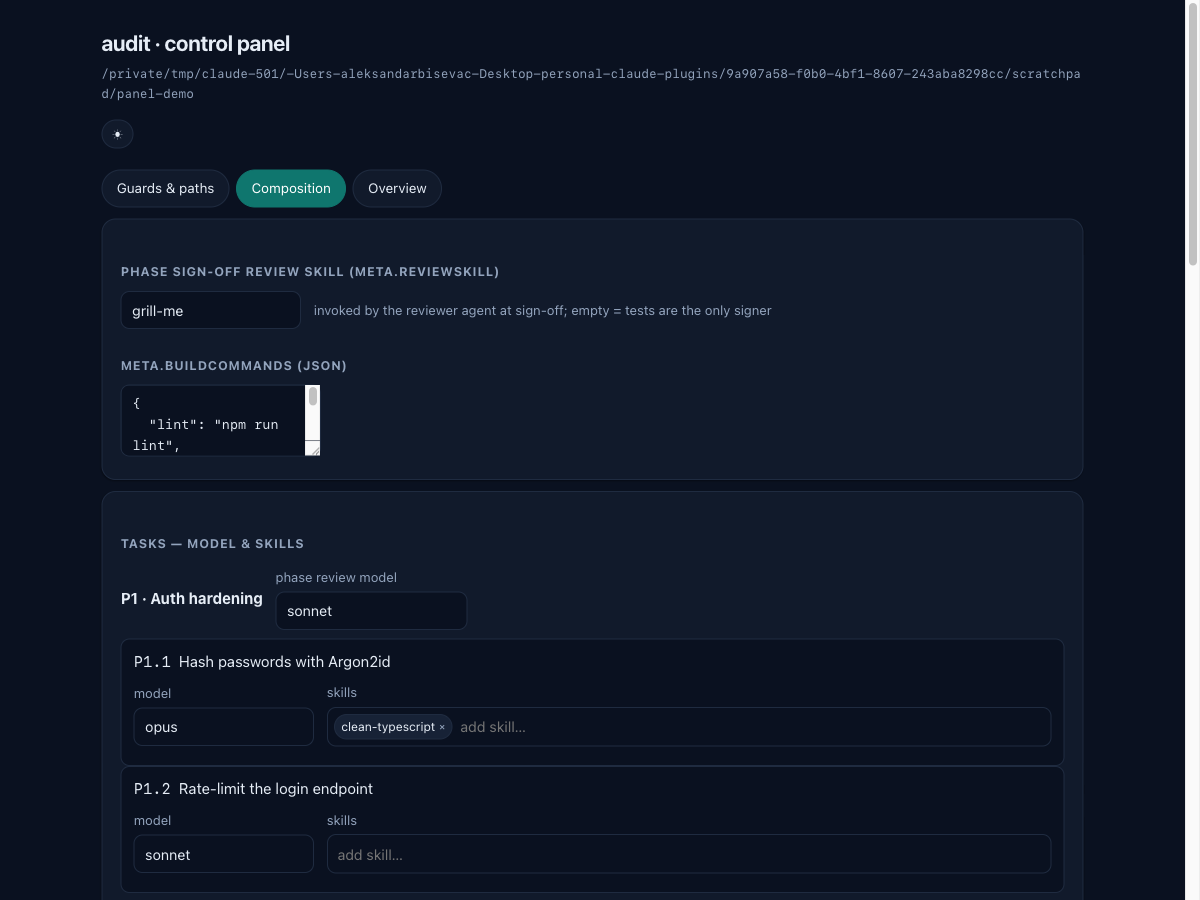
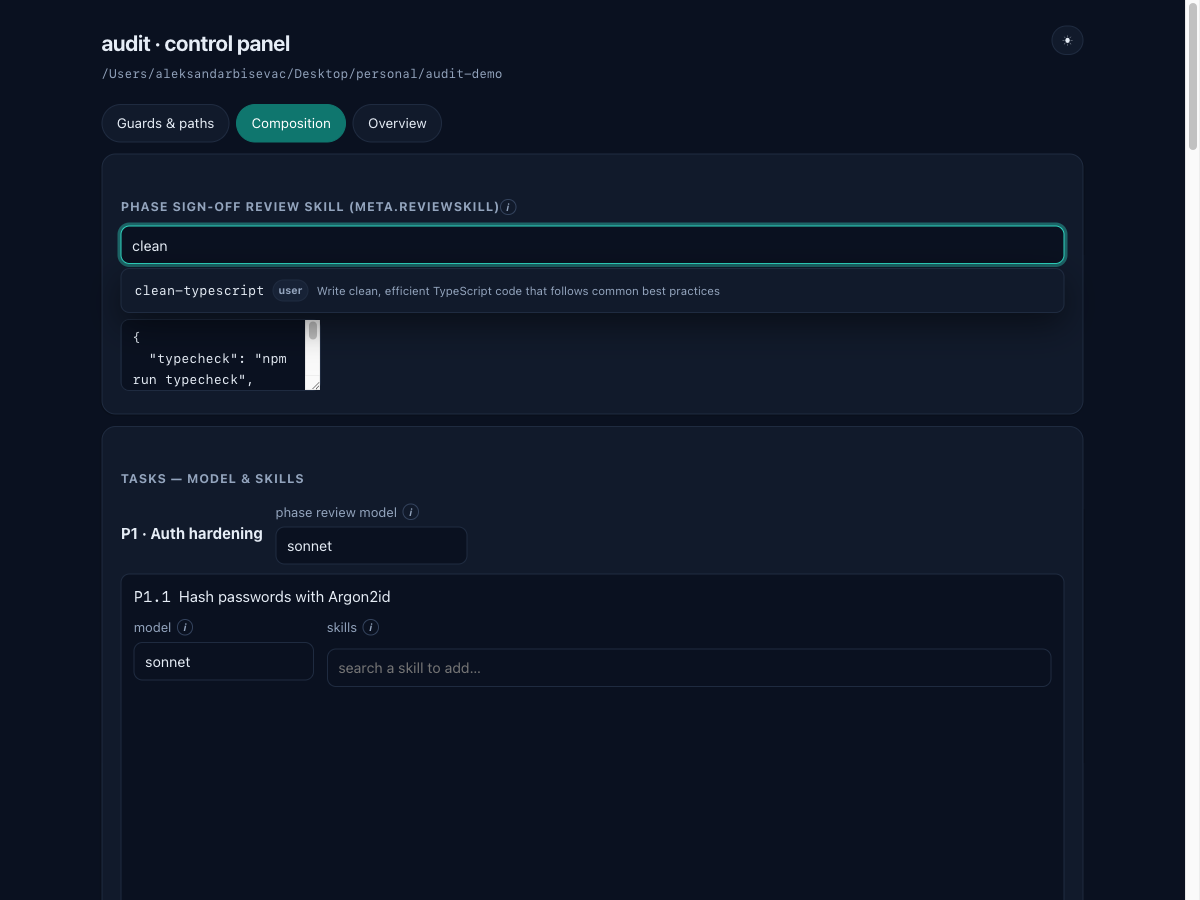
feat(panel): info-hint labels, custom autocomplete, tabbed registry table
UX pass on the control panel (feedback from first look):
- Every field/section label gets an ⓘ info hint with a plain-language tooltip
  (a DESC map) so the raw config keys are self-explanatory.
- Replaces the native <datalist> with a custom combobox: an autocomplete menu
  directly under the input, limited height + scroll, clear items (name + source
  badge + description), full keyboard + click select. Used by meta.reviewSkill
  and per-task skills.
- "Available building blocks" is now ONE table with Skills / Agents / MCP
  sub-tabs (name · source · description, sticky header) instead of stacked lists.
- Fixes model/skills top-alignment in task rows.

panel-server --selftest 30 (added checks: no native datalist, hints present,
tabbed table present). Browser-verified light + dark.

diff --git a/plugins/audit/scripts/panel-server.py b/plugins/audit/scripts/panel-server.py
@@ -633,9 +633,41 @@ textarea{font-family:var(--mono);font-size:.82rem;min-height:4.5rem;resize:verti
 .findings.warn{background:color-mix(in srgb,var(--warn) 14%,transparent);color:var(--warn)}
 .findings.ok{background:color-mix(in srgb,var(--ok) 12%,transparent);color:var(--ok)}
 .src{font-size:.66rem}.hidden{display:none}
-.reg{display:flex;flex-direction:column;gap:.3rem;max-height:16rem;overflow:auto}
-.reg .it{display:flex;gap:.5rem;align-items:baseline;padding:.3rem .4rem;border-radius:var(--radius)}
-.reg .it:hover{background:var(--surface-2)}
+/* info hints on labels */
+.lbl{display:inline-flex;align-items:center;gap:.35rem}
+.hint{display:inline-flex;align-items:center;justify-content:center;width:1.02rem;height:1.02rem;border-radius:50%;
+ border:1px solid var(--border-strong);color:var(--muted);font:italic 700 .62rem/1 var(--sans);cursor:help;
+ position:relative;flex:0 0 auto;text-transform:none}
+.hint:hover,.hint:focus{border-color:var(--accent);color:var(--accent);outline:none}
+.hint::after{content:attr(data-tip);position:absolute;left:0;top:calc(100% + .4rem);z-index:60;width:17rem;max-width:72vw;
+ background:var(--surface);color:var(--text);border:1px solid var(--border);border-radius:var(--radius);
+ box-shadow:var(--shadow-md);padding:.5rem .6rem;font:400 .74rem/1.45 var(--sans);text-transform:none;letter-spacing:0;
+ white-space:normal;opacity:0;visibility:hidden;transition:opacity var(--dur);pointer-events:none}
+.hint:hover::after,.hint:focus::after{opacity:1;visibility:visible}
+/* custom autocomplete combobox (replaces native datalist) */
+.combo{position:relative;flex:1 1 18rem}
+.combo>input{width:100%}
+.combo-menu{position:absolute;left:0;right:0;top:calc(100% + .25rem);z-index:40;background:var(--surface);
+ border:1px solid var(--border);border-radius:var(--radius);box-shadow:var(--shadow-md);max-height:15rem;overflow:auto;padding:.25rem}
+.combo-it{display:flex;align-items:center;gap:.5rem;padding:.4rem .55rem;border-radius:6px;cursor:pointer}
+.combo-it:hover,.combo-it.active{background:var(--surface-2)}
+.combo-n{font-size:.82rem;flex:0 0 auto}
+.combo-d{color:var(--muted);font-size:.72rem;white-space:nowrap;overflow:hidden;text-overflow:ellipsis;flex:1 1 auto}
+.chipwrap{display:flex;flex-direction:column;gap:.4rem;flex:1 1 auto}
+.chips{display:flex;gap:.3rem;flex-wrap:wrap}
+/* discovered building-blocks: subtabs + one table */
+.subtabs{display:flex;gap:.35rem;margin:.5rem 0 .6rem;flex-wrap:wrap}
+.subtab{cursor:pointer;font:inherit;font-size:.78rem;padding:.3rem .75rem;border-radius:var(--pill);
+ border:1px solid var(--border);background:var(--bg);color:var(--muted);transition:all var(--dur) var(--ease)}
+.subtab:hover{border-color:var(--border-strong)}
+.subtab.on{background:var(--surface-2);color:var(--text);border-color:var(--border-strong)}
+.regtblwrap{max-height:22rem;overflow:auto;border:1px solid var(--border);border-radius:var(--radius)}
+table.regtbl{width:100%;border-collapse:separate;border-spacing:0;font-size:.82rem}
+table.regtbl th{position:sticky;top:0;z-index:1;background:var(--surface-2);color:var(--muted);text-align:left;
+ font-size:.66rem;text-transform:uppercase;letter-spacing:.05em;padding:.45rem .65rem;border-bottom:1px solid var(--border)}
+table.regtbl td{padding:.4rem .65rem;border-bottom:1px solid var(--border);vertical-align:top}
+table.regtbl tbody tr:hover td{background:var(--surface-2)}
+table.regtbl td.d{color:var(--muted)}
 </style></head><body>
 <div class=top>
  <div><h1>audit · control panel</h1><p class=sub id=proj></p></div>
@@ -680,6 +712,57 @@ function findingsBox(res){const box=el('div');
  return box;}
 async function boot(){STATE=await api('GET','/api/state');REG=await api('GET','/api/registry');
  renderGuards();renderComp();renderOver();}
+// ---------- shared: info hints + autocomplete ----------
+const DESC={
+ manifestPath:"Path to the audit manifest JSON (project-relative). Default docs/audit/audit-plan.json.",
+ gitRoot:"Path of the git repo root, where git + build/gate commands run. Default '.' (this dir).",
+ stateDir:"Where the hooks keep transactional state files. Default .claude/state.",
+ logsDir:"Where the hooks write logs. Default .claude/logs.",
+ bypassKeyword:"Type this in a prompt to arm a one-off plan-first bypass for the next edit. Default #no-plan.",
+ trivialLineThreshold:"First-touch edits at or under this many lines skip the plan-first gate. Default 80.",
+ bashWriteCheck:"Warn when a Bash command creates new source files that weren't planned.",
+ tddReminder:"Non-blocking nudge when you edit source without touching a test.",
+ exemptGlobs:"Globs whose edits skip the plan-first / TDD / bash-write guards (docs, tests, .claude/**, the manifest).",
+ tokenVars:"Identifier names that must never be logged — a console.log/print of any of these is blocked.",
+ secretPatternsExtra:"Extra regexes that mark a file path as a secret; reading a matching file is blocked.",
+ customRules:"Per-path banned patterns: block a regex in new content when the edited path starts with a prefix.",
+ reviewSkill:"Skill the reviewer agent invokes at phase sign-off. Empty = tests are the only signer.",
+ buildCommands:"Named shell commands (typecheck / test / lint …) the pipeline runs as gates.",
+ phaseReviewModel:"Model used for this phase's sign-off review.",
+ taskModel:"Model the executor uses to implement this task.",
+ taskSkills:"Skills the executor loads (via the Skill tool) before writing code for this task."};
+function hint(t){return t?el('span',{class:'hint',tabindex:'0','data-tip':t},'i'):null;}
+function flabel(text,tip){return el('span',{class:'lbl'},text,hint(tip));}
+function h2h(text,tip){return el('h2',{},text,hint(tip));}
+// A custom autocomplete: menu opens directly under the input, limited height,
+// clear items (name + source + description), keyboard + click select.
+function comboWrap(inp,itemsFn,onChoose,onEnterFree){
+ const wrap=el('div',{class:'combo'}),menu=el('div',{class:'combo-menu hidden'});
+ let active=-1,shown=[];
+ const close=()=>{menu.classList.add('hidden');active=-1;};
+ const render=()=>{const q=inp.value.trim().toLowerCase();
+  shown=itemsFn().filter(it=>it.name.toLowerCase().includes(q)).slice(0,60);
+  menu.textContent='';
+  if(!shown.length){close();return;}
+  shown.forEach((it,i)=>menu.append(el('div',{class:'combo-it'+(i===active?' active':''),
+    onmousedown:e=>{e.preventDefault();onChoose(it.name,close);}},
+    el('span',{class:'combo-n mono'},it.name),
+    it.source?el('span',{class:'src badge'},it.source):null,
+    it.description?el('span',{class:'combo-d'},it.description):null)));
+  menu.classList.remove('hidden');
+  const a=menu.querySelector('.combo-it.active');if(a)a.scrollIntoView({block:'nearest'});};
+ inp.setAttribute('autocomplete','off');
+ inp.addEventListener('focus',render);
+ inp.addEventListener('input',()=>{active=-1;render();});
+ inp.addEventListener('keydown',e=>{
+  if(e.key==='ArrowDown'){e.preventDefault();active=Math.min(active+1,shown.length-1);render();}
+  else if(e.key==='ArrowUp'){e.preventDefault();active=Math.max(active-1,0);render();}
+  else if(e.key==='Enter'){if(active>=0){e.preventDefault();onChoose(shown[active].name,close);}
+   else if(onEnterFree&&inp.value.trim()){e.preventDefault();onEnterFree(inp.value.trim(),close);}}
+  else if(e.key==='Escape'){close();}});
+ inp.addEventListener('blur',()=>setTimeout(close,150));
+ wrap.append(inp,menu);return wrap;}
+
 // ---------- Guards & paths ----------
 function listEditor(getArr,setArr,ph){const wrap=el('div',{class:'pill-in'});
  const draw=()=>{wrap.textContent='';(getArr()||[]).forEach((v,i)=>{
@@ -693,29 +776,29 @@ function renderGuards(){const c=$('#guards');c.textContent='';const cfg=JSON.par
  const paths=el('div',{class:'row'});
  for(const k of['manifestPath','gitRoot','stateDir','logsDir','bypassKeyword']){
   const inp=el('input',{value:cfg[k]??'',placeholder:d[k]});inp.oninput=()=>{if(inp.value==='')delete cfg[k];else cfg[k]=inp.value;};
-  paths.append(el('label',{class:'f'},k,inp));}
+  paths.append(el('label',{class:'f'},flabel(k,DESC[k]),inp));}
  const thr=el('input',{type:'number',min:'1',value:cfg.trivialLineThreshold??'',placeholder:d.trivialLineThreshold});
  thr.oninput=()=>{if(thr.value==='')delete cfg.trivialLineThreshold;else cfg.trivialLineThreshold=parseInt(thr.value,10);};
- paths.append(el('label',{class:'f'},'trivialLineThreshold',thr));
+ paths.append(el('label',{class:'f'},flabel('trivialLineThreshold',DESC.trivialLineThreshold),thr));
  card.append(el('h2',{},'Paths'),paths);
  // toggles
  const bw=cfg.bashWriteCheck?{...cfg.bashWriteCheck}:{};const td=cfg.tddReminder?{...cfg.tddReminder}:{};
  const tog=el('div',{class:'row'});
- const mk=(lbl,val,fn)=>{const cb=el('input',{type:'checkbox'});cb.checked=val;cb.onchange=()=>fn(cb.checked);
-  return el('label',{class:'f',style:'flex-direction:row;align-items:center;gap:.4rem;flex:0 0 auto'},cb,lbl);};
- tog.append(mk('bashWriteCheck.enabled',bw.enabled!==false,v=>{bw.enabled=v;cfg.bashWriteCheck=bw;}));
- tog.append(mk('tddReminder.enabled',td.enabled!==false,v=>{td.enabled=v;cfg.tddReminder=td;}));
+ const mk=(lbl,tip,val,fn)=>{const cb=el('input',{type:'checkbox'});cb.checked=val;cb.onchange=()=>fn(cb.checked);
+  return el('label',{class:'f',style:'flex-direction:row;align-items:center;gap:.4rem;flex:0 0 auto'},cb,flabel(lbl,tip));};
+ tog.append(mk('bashWriteCheck.enabled',DESC.bashWriteCheck,bw.enabled!==false,v=>{bw.enabled=v;cfg.bashWriteCheck=bw;}));
+ tog.append(mk('tddReminder.enabled',DESC.tddReminder,td.enabled!==false,v=>{td.enabled=v;cfg.tddReminder=td;}));
  card.append(el('h2',{},'Guards'),tog);
  // lists
- card.append(el('h2',{},'exemptGlobs'),listEditor(()=>cfg.exemptGlobs??d.exemptGlobs,a=>cfg.exemptGlobs=a,'glob…'));
- card.append(el('h2',{},'guardEdits.tokenVars (never logged)'),
+ card.append(h2h('exemptGlobs',DESC.exemptGlobs),listEditor(()=>cfg.exemptGlobs??d.exemptGlobs,a=>cfg.exemptGlobs=a,'glob…'));
+ card.append(h2h('guardEdits.tokenVars (never logged)',DESC.tokenVars),
   listEditor(()=>{cfg.guardEdits=cfg.guardEdits||{};return cfg.guardEdits.tokenVars??d.guardEdits.tokenVars;},
    a=>{cfg.guardEdits=cfg.guardEdits||{};cfg.guardEdits.tokenVars=a;},'identifier…'));
- card.append(el('h2',{},'secretPatterns.extra (regex)'),
+ card.append(h2h('secretPatterns.extra (regex)',DESC.secretPatternsExtra),
   listEditor(()=>{cfg.secretPatterns=cfg.secretPatterns||{};return cfg.secretPatterns.extra??[];},
    a=>{cfg.secretPatterns=cfg.secretPatterns||{};cfg.secretPatterns.extra=a;},'regex…'));
  // custom rules
- card.append(el('h2',{},'guardEdits.customRules'));
+ card.append(h2h('guardEdits.customRules',DESC.customRules));
  const rulesWrap=el('div');const rules=()=>{cfg.guardEdits=cfg.guardEdits||{};cfg.guardEdits.customRules=cfg.guardEdits.customRules||[];return cfg.guardEdits.customRules;};
  const drawRules=()=>{rulesWrap.textContent='';rules().forEach((r,i)=>{
    const pp=el('input',{value:r.pathPrefix||'',placeholder:'pathPrefix'});pp.oninput=()=>r.pathPrefix=pp.value;
@@ -732,22 +815,24 @@ function renderGuards(){const c=$('#guards');c.textContent='';const cfg=JSON.par
  c.append(card);}
 // ---------- Composition ----------
 function skillPicker(current,onChange){
- const dl=el('datalist',{id:'skills-dl'});REG.skills.forEach(s=>dl.append(el('option',{value:s.name})));
- const inp=el('input',{list:'skills-dl',value:current??'',placeholder:'skill name (or leave empty)'});
- inp.oninput=()=>onChange(inp.value.trim()||null);return el('span',{},inp,dl);}
+ const inp=el('input',{value:current??'',placeholder:'search a skill…  (empty = none)'});
+ inp.addEventListener('input',()=>onChange(inp.value.trim()||null));
+ return comboWrap(inp,()=>REG.skills,(name,close)=>{inp.value=name;onChange(name);close();});}
 function skillChips(getArr,setArr){
- const box=el('div',{class:'pill-in'});const draw=()=>{box.textContent='';
-  (getArr()||[]).forEach((v,i)=>box.append(el('span',{class:'chip'},v,el('button',{onclick:()=>{const a=getArr().slice();a.splice(i,1);setArr(a);draw();}},'×'))));
-  const dl=el('datalist',{id:'sk-'+Math.random().toString(36).slice(2)});REG.skills.forEach(s=>dl.append(el('option',{value:s.name})));
-  const inp=el('input',{list:dl.id,placeholder:'add skill…'});inp.addEventListener('keydown',e=>{
-   if(e.key==='Enter'&&inp.value.trim()){const a=(getArr()||[]).slice();a.push(inp.value.trim());setArr(a);draw();}});
-  box.append(inp,dl);};draw();return box;}
+ const box=el('div',{class:'chipwrap'}),chips=el('div',{class:'chips'});
+ const inp=el('input',{placeholder:'search a skill to add…'});
+ const draw=()=>{chips.textContent='';(getArr()||[]).forEach((v,i)=>chips.append(
+   el('span',{class:'chip'},v,el('button',{onmousedown:e=>{e.preventDefault();const a=getArr().slice();a.splice(i,1);setArr(a);draw();}},'×'))));};
+ const add=(name,close)=>{const n=(name||'').trim();
+   if(n){const a=(getArr()||[]).slice();if(!a.includes(n)){a.push(n);setArr(a);draw();}}
+   inp.value='';if(close)close();};
+ const combo=comboWrap(inp,()=>REG.skills.filter(s=>!(getArr()||[]).includes(s.name)),add,add);
+ draw();box.append(chips,combo);return box;}
 function renderComp(){const c=$('#comp');c.textContent='';const comp=STATE.composition;
  const patch={meta:{},phases:{},tasks:{}};
- const meta=el('div',{class:'card'});meta.append(el('h2',{},'Phase sign-off review skill (meta.reviewSkill)'));
- meta.append(el('div',{class:'row'},skillPicker(comp.meta.reviewSkill,v=>patch.meta.reviewSkill=v),
-   el('span',{class:'mut'},'invoked by the reviewer agent at sign-off; empty = tests are the only signer')));
- meta.append(el('h2',{},'meta.buildCommands (JSON)'));
+ const meta=el('div',{class:'card'});meta.append(h2h('Phase sign-off review skill (meta.reviewSkill)',DESC.reviewSkill));
+ meta.append(el('div',{class:'row'},skillPicker(comp.meta.reviewSkill,v=>patch.meta.reviewSkill=v)));
+ meta.append(h2h('meta.buildCommands (JSON)',DESC.buildCommands));
  const bc=el('textarea',{});bc.value=comp.meta.buildCommands?JSON.stringify(comp.meta.buildCommands,null,2):'';
  bc.oninput=()=>{try{patch.meta.buildCommands=bc.value.trim()?JSON.parse(bc.value):null;bc.style.borderColor='';}
   catch(e){bc.style.borderColor='var(--err)';}};
@@ -757,14 +842,14 @@ function renderComp(){const c=$('#comp');c.textContent='';const comp=STATE.compo
  comp.phases.forEach(ph=>{
   const pr=el('input',{value:ph.reviewModel??'',placeholder:'review model'});pr.oninput=()=>{patch.phases[ph.id]={reviewModel:pr.value.trim()||null};};
   tcard.append(el('div',{class:'row',style:'margin-top:.8rem'},el('strong',{},(ph.id||'')+' · '+(ph.title||'')),
-    el('label',{class:'f',style:'flex:0 0 12rem'},'phase review model',pr)));
+    el('label',{class:'f',style:'flex:0 0 12rem'},flabel('phase review model',DESC.phaseReviewModel),pr)));
   (byPhase[ph.id]||[]).forEach(t=>{
    const tp={};const model=el('input',{value:t.model??'',placeholder:'model'});
    model.oninput=()=>{tp.model=model.value.trim()||null;patch.tasks[t.id]=tp;};
    const chips=skillChips(()=>tp.skills!==undefined?tp.skills:t.skills,a=>{tp.skills=a;patch.tasks[t.id]=tp;});
    tcard.append(el('div',{class:'tsk'},el('div',{class:'h'},el('span',{class:'mono'},t.id),el('span',{},t.title||'')),
-     el('div',{class:'row'},el('label',{class:'f',style:'flex:0 0 10rem'},'model',model),
-       el('label',{class:'f'},'skills',chips))));});});
+     el('div',{class:'row',style:'align-items:flex-start'},el('label',{class:'f',style:'flex:0 0 10rem'},flabel('model',DESC.taskModel),model),
+       el('label',{class:'f'},flabel('skills',DESC.taskSkills),chips))));});});
  const save=el('button',{class:'btn primary',onclick:async()=>{
    const clean={meta:{},phases:patch.phases,tasks:patch.tasks};
    for(const k of Object.keys(patch.meta))clean.meta[k]=patch.meta[k];
@@ -776,16 +861,24 @@ function renderComp(){const c=$('#comp');c.textContent='';const comp=STATE.compo
  if(!STATE.manifestExists)tcard.append(el('div',{class:'findings warn'},'No manifest yet — run /audit:init first.'));
  if(STATE.manifestLocked)tcard.append(el('div',{class:'findings warn'},'Manifest is locked by a running /audit command.'));
  c.append(tcard);
- // building blocks
- const bb=el('div',{class:'card'});bb.append(el('h2',{},'Available building blocks (discovered)'));
- const mkReg=(title,items,extra)=>{const w=el('div');w.append(el('div',{class:'mut',style:'margin:.3rem 0'},title+' ('+items.length+')'));
-   const list=el('div',{class:'reg'});items.forEach(it=>list.append(el('div',{class:'it'},
-     el('span',{class:'mono'},it.name),el('span',{class:'src badge'},it.source),
-     el('span',{class:'mut'},it.description||''))));if(extra&&items.length===0)list.append(el('span',{class:'mut'},'none found'));
-   w.append(list);return w;};
- bb.append(mkReg('skills',REG.skills,true),mkReg('agents',REG.agents,true));
- if(REG.mcp.length)bb.append(el('div',{class:'mut',style:'margin-top:.4rem'},'MCP servers: '+REG.mcp.join(', ')));
- c.append(bb);}
+ // building blocks — one table, sub-tabs switch context (skills / agents / mcp)
+ const bb=el('div',{class:'card'});
+ bb.append(h2h('Available building blocks (discovered)',
+   'Skills & agents found in this project, your ~/.claude, and installed plugins — plus MCP servers in scope. Use these names in the pickers above.'));
+ const datasets={skills:REG.skills,agents:REG.agents,
+   mcp:(REG.mcp||[]).map(n=>({name:n,source:'mcp',description:''}))};
+ const subtabs=el('div',{class:'subtabs'}),host=el('div',{class:'regtblwrap'});let cur='skills';
+ const drawTbl=()=>{const items=datasets[cur]||[];const tb=el('tbody');
+   if(!items.length)tb.append(el('tr',{},el('td',{colspan:'3',class:'mut'},'none found')));
+   items.forEach(it=>tb.append(el('tr',{},el('td',{class:'mono'},it.name),
+     el('td',{},it.source?el('span',{class:'src badge'},it.source):null),
+     el('td',{class:'d'},it.description||''))));
+   host.replaceChildren(el('table',{class:'regtbl'},
+     el('thead',{},el('tr',{},el('th',{},'name'),el('th',{},'source'),el('th',{},'description'))),tb));};
+ ['skills','agents','mcp'].forEach(k=>subtabs.append(el('button',{class:'subtab'+(k===cur?' on':''),
+   onclick:e=>{cur=k;[...subtabs.children].forEach(x=>x.classList.toggle('on',x===e.currentTarget));drawTbl();}},
+   k+' ('+(datasets[k]||[]).length+')')));
+ drawTbl();bb.append(subtabs,host);c.append(bb);}
 // ---------- Overview ----------
 function renderOver(){const c=$('#over');c.textContent='';const r=STATE.rollup;const card=el('div',{class:'card'});
  if(!r){card.append(el('div',{class:'mut'},'No manifest at '+STATE.manifestPath+'. Run /audit:init.'));c.append(card);return;}
@@ -906,6 +999,11 @@ def _selftest():
     check("UI has project placeholder", "__AUDIT_PROJECT__" in UI_HTML)
     check("UI token injected as a quoted JS string",
           'const TOKEN="abc123"' in UI_HTML.replace("__AUDIT_TOKEN__", _js("abc123")))
+    check("UI uses the custom combobox, not a native datalist",
+          "function comboWrap(" in UI_HTML and "combo-menu" in UI_HTML
+          and "<datalist" not in UI_HTML and "list:" not in UI_HTML)
+    check("UI labels carry info hints", "function hint(" in UI_HTML and "data-tip" in UI_HTML)
+    check("UI building blocks are a tabbed table", "regtbl" in UI_HTML and "subtab" in UI_HTML)
 
     import shutil
     shutil.rmtree(tmp, ignore_errors=True)
